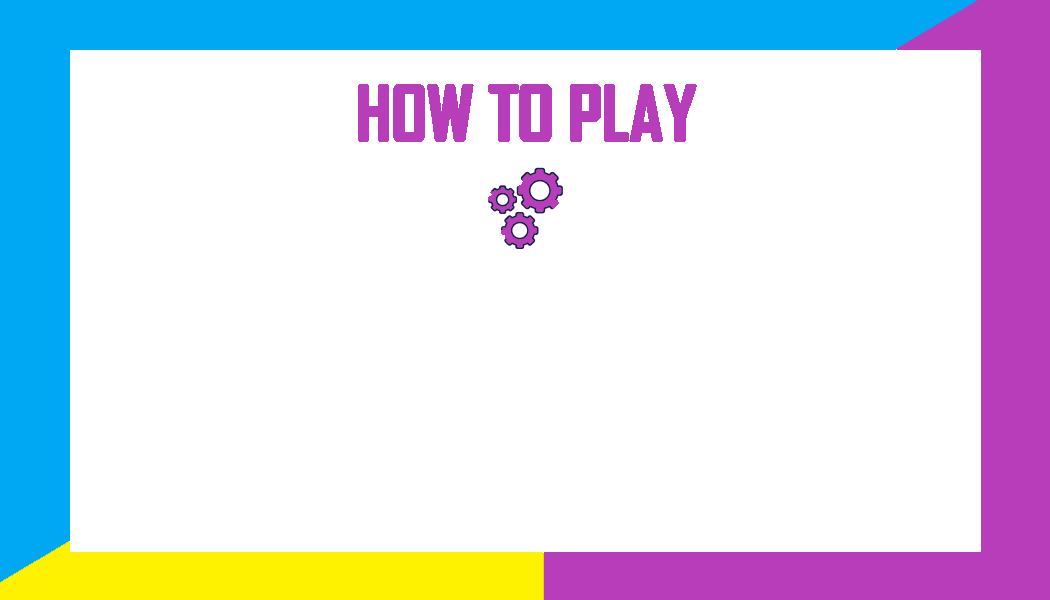
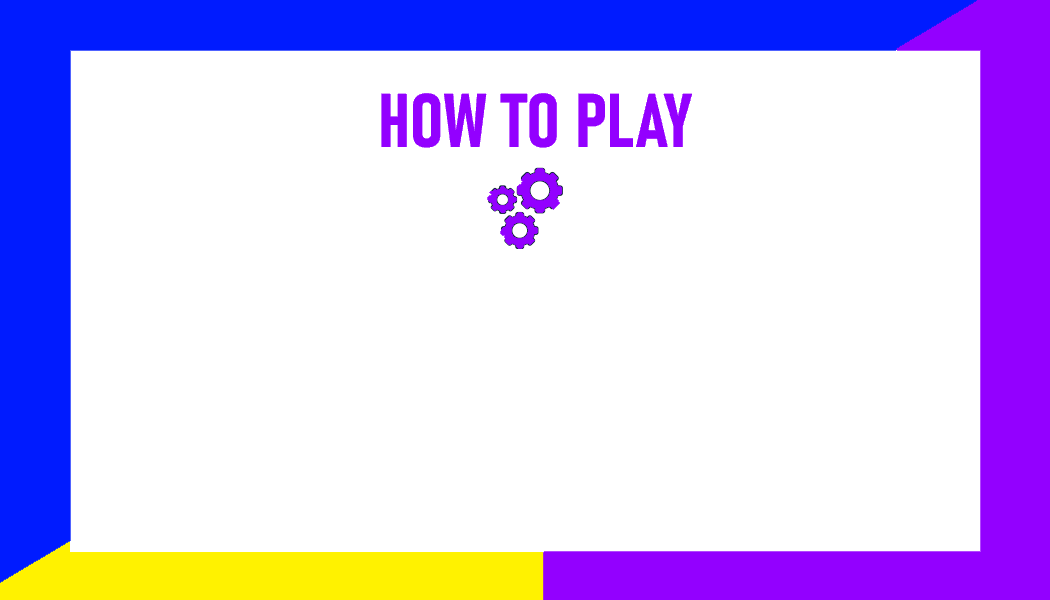
Minor requests addressed (increased space above collapsibles, better distinguished titles and headings, changed tanish color to light blueish, updated game screen colors

Changed region(s): [[0.0, 0.0, 1.0, 1.0], [0.3352, 0.12, 0.6705, 0.27], [0.4571, 0.27, 0.5486, 0.42]]

diff --git a/src/components/CoreStyle.js b/src/components/CoreStyle.js
@@ -13,7 +13,7 @@ if (global.scheme == "dark") {
     global.text = "white";
 } else {
     global.color = "ivory";
-    global.color2 = "papayawhip";
+    global.color2 = "powderblue";
     global.color3 = "lightgray";
     global.text = "black";
 }
@@ -103,7 +103,7 @@ export const CoreStyle = StyleSheet.create({
         color: global.text,
         fontSize: 40,
         marginBottom: 15,
-        fontWeight: "bold",
+        fontWeight: "900",
         textAlign: "center",
         textDecorationLine: "underline",
         marginHorizontal: 0,
@@ -133,7 +133,7 @@ export const CoreStyle = StyleSheet.create({
         fontSize: 26,
         marginBottom: 20,
         textAlign: "center",
-        fontWeight: "bold",
+        fontWeight: "800",
         fontStyle: "italic",
         marginHorizontal: 10,
     },
@@ -173,9 +173,8 @@ export const CoreStyle = StyleSheet.create({
     bullet: {
         color: global.text,
         fontSize: 22,
-        fontWeight: "bold",
-        marginLeft: 15,
-        marginRight: 15
+        fontWeight: "600",
+        marginHorizontal: 20
     },
 
     //Good size for small sub-bullet points, works well as body for collapsible box
@@ -357,7 +356,7 @@ export const CoreStyle = StyleSheet.create({
         flexDirection: "row",
         alignItems: "center",
         justifyContent: "space-between",
-        backgroundColor: "papayawhip",
+        backgroundColor: "powderblue",
         paddingVertical: 0,
 
     },

diff --git a/src/screens/Settings.js b/src/screens/Settings.js
@@ -24,7 +24,7 @@ export default function About({ navigation }) {
     } else {
         global.scheme = "light";
         global.color = "ivory";
-        global.color2 = "papayawhip";
+        global.color2 = "powderblue";
         global.color3 = "lightgray";
         global.bg = Background;
         global.logo = logo1;

diff --git a/src/screens/Information.js b/src/screens/Information.js
@@ -288,6 +288,8 @@ export default class Information extends Component {
 
     <Text allowFontScaling={true} style={CoreStyle.subtitle}>{txt[0].body}</Text>
 
+    <Text>{'\n'}</Text>
+
 <CollapsibleBox header={txt[1].title}
     headerstyle={CoreStyle.bullet}>
     <TouchableOpacity onPress={() => this.interactAlert(1)}>

diff --git a/src/components/buttons/MMButton.js b/src/components/buttons/MMButton.js
@@ -22,7 +22,7 @@ export default function MMButton({ text, onPress, txtColor, img }) {
         global.text = "white";
     } else {
         global.color = "ivory";
-        global.color2 = "papayawhip";
+        global.color2 = "powderblue";
         global.color3 = "lightgray";
         global.text = "black";
     }

diff --git a/src/components/buttons/TopicButton.js b/src/components/buttons/TopicButton.js
@@ -17,7 +17,7 @@ export default function TopicButton({ text, onPress }) {
         global.text = "white";
     } else {
         global.color = "ivory";
-        global.color2 = "papayawhip";
+        global.color2 = "powderblue";
         global.color3 = "lightgray";
         global.text = "black";
     }

diff --git a/src/components/buttons/MainButton.js b/src/components/buttons/MainButton.js
@@ -17,7 +17,7 @@ export default function MainButton({ text, onPress}) {
         global.text = "white";
     } else {
         global.color = "ivory";
-        global.color2 = "papayawhip";
+        global.color2 = "powderblue";
         global.color3 = "lightgray";
         global.text = "black";
     }

diff --git a/src/components/buttons/QuizButton.js b/src/components/buttons/QuizButton.js
@@ -86,7 +86,7 @@ export default class QuizButton extends PureComponent{
         global.text = "white";
     } else {
         global.color = "ivory";
-        global.color2 = "papayawhip";
+        global.color2 = "powderblue";
         global.color3 = "lightgray";
         global.text = "black";
     }

diff --git a/src/screens/Landing.js b/src/screens/Landing.js
@@ -29,7 +29,7 @@ export default function Landing({ navigation }) {
     } else {
         global.bg = Background;
         global.color = "ivory";
-        global.color2 = "papayawhip";
+        global.color2 = "powderblue";
         global.color3 = "lightgray";
         global.text = "black";
     }

diff --git a/src/components/NavBar.js b/src/components/NavBar.js
@@ -70,7 +70,7 @@ export default function Navbar({ navigation }){
         global.text = "white";
     } else {
         global.color = "ivory";
-        global.color2 = "papayawhip";
+        global.color2 = "powderblue";
         global.color3 = "lightgray";
         global.text = "black";
     }

diff --git a/src/screens/Menu.js b/src/screens/Menu.js
@@ -72,7 +72,7 @@ export default class Menu extends Component {
         case "Resources":
             hdr = "Referenced Sources";
             r = 0;
-            g = 176;
+            g = 27;
             b = 255;
             for (let i = 0; i < 6; i++) {
                 _r = (108/6)*i;

diff --git a/App.js b/App.js
@@ -8,7 +8,7 @@ import logo2 from "./src/assets/app/landinglogo-alt.png";
 
 global.scheme = "light";
 global.color = "ivory";
-global.color2 = "papayawhip";
+global.color2 = "powderblue";
 global.color3 = "lightgray";
 global.bg = bg1;
 global.logo = logo1;
